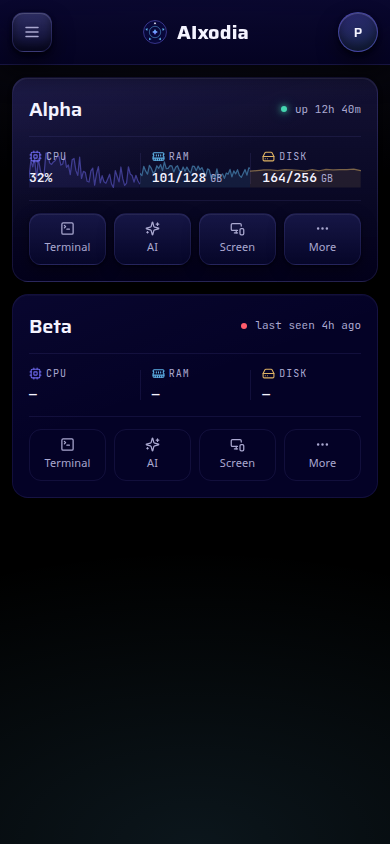
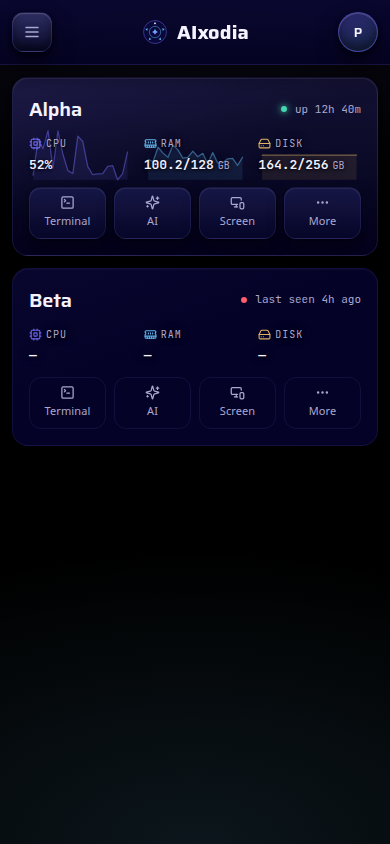
Let the spark run past the letters
Give the chart a 10px bleed above and below its cell and stop clipping it, so the
line overshoots the label and the reading by about 5px each way instead of being
boxed in with them. The chart height is set explicitly because a viewBox'd SVG
falls back to its square ratio when only the insets size it.

diff --git a/src/mock/mock.css b/src/mock/mock.css
@@ -386,6 +386,7 @@ button:disabled { cursor: not-allowed; }
 /* --------------------------------------------------------------- metrics */
 
 .metrics {
+  --spark-bleed: 10px;
   display: grid;
   /* Equal thirds: a reading that is wider than its panel is worse than one a
      little smaller, so the value below scales with the viewport instead. */
@@ -395,14 +396,14 @@ button:disabled { cursor: not-allowed; }
 }
 
 /* No frame: the columns are held apart by the gap alone, so the reading and its
-   history keep the whole third of the card. */
+   history keep the whole third of the card. The chart is allowed out of the cell,
+   so nothing here clips. */
 .metric {
   position: relative;
   display: flex;
   flex-direction: column;
   gap: var(--s1);
   min-width: 0;
-  overflow: hidden;
 }
 
 /* Icon and name on one line, the reading under it: the number is the point, so it
@@ -411,9 +412,12 @@ button:disabled { cursor: not-allowed; }
    is decoration: never clickable, never in the accessibility tree. */
 .metric-spark {
   position: absolute;
-  inset: 0;
+  /* Bleeds past the label above and the reading below: the line is the shape of
+     the history, not a box drawn around the letters. The height is explicit
+     because a viewBox'd SVG otherwise takes its intrinsic square ratio. */
+  inset: calc(var(--spark-bleed) * -1) 0;
   width: 100%;
-  height: 100%;
+  height: calc(100% + var(--spark-bleed) * 2);
   pointer-events: none;
   color: var(--accent);
 }

diff --git a/src/mock/EnginesMock.tsx b/src/mock/EnginesMock.tsx
@@ -139,8 +139,8 @@ function Spark({ values, ceiling, tone }: { values: number[]; ceiling: number; t
      geometry rather than CSS offsets: an absolutely positioned SVG with a viewBox
      keeps its own aspect ratio and refuses to be inset. The line runs close to the
      label and the reading, so it reads as theirs rather than as a band behind. */
-  const TOP = 9
-  const FLOOR = 91
+  const TOP = 8
+  const FLOOR = 92
   const SIDE = 4
   const min = Math.min(...values)
   const max = Math.max(...values)

diff --git a/docs/ux-visual/verification/mock.md b/docs/ux-visual/verification/mock.md
@@ -606,3 +606,16 @@ third instead of floating a few pixels in.
 A first pass at `TOP 5 / FLOOR 95` was rejected on the screenshot: the dips ran
 into the upper half of `100.2/128 GB`. `9/91` keeps every digit clear while still
 reading as a tight band. Audits clean at 320, 360, 390, 430 and 1440.
+
+## Round 31 — the line runs past the letters
+
+The spark now bleeds out of its cell: `--spark-bleed: 10px` on `.metrics`,
+`inset: -10px 0` and `height: calc(100% + 20px)` on `.metric-spark`, with `.metric`
+no longer clipping. The chart's own band is `TOP 8 / FLOOR 92`, so at 390 (cell
+38.5, chart box 58.5 starting at y126) the line's peak is `y130.7` — 5.3px above
+the label top (136) — and its floor is `y179.8` — 5.3px below the value bottom
+(174.5).
+
+The height has to be explicit: a `viewBox`-sized SVG with only insets falls back to
+its 1:1 intrinsic ratio and renders 102px tall in a 38px cell. Audits clean at 320,
+360, 390, 430 and 1440; the 10px bleed stays inside the 12px gap above the actions.
